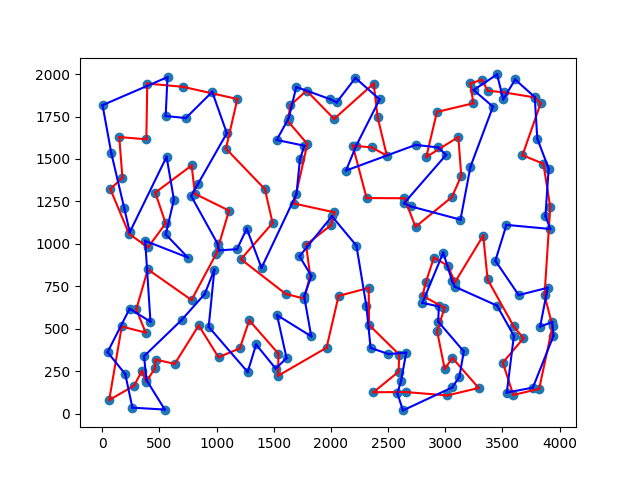
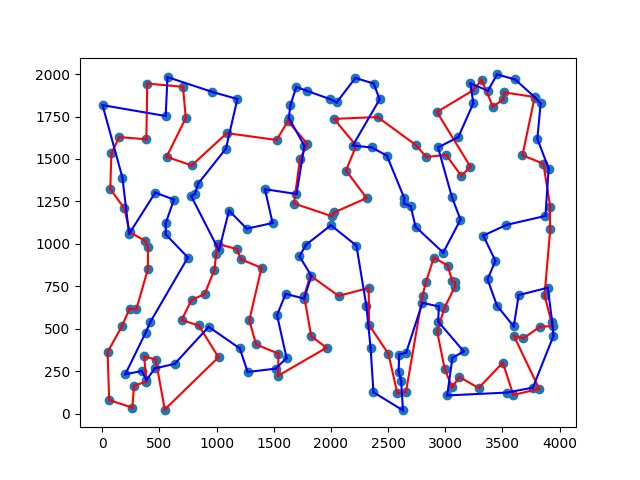
weighted 2 regret fixed :)))

diff --git a/TSP_heuristic/src/algo/regret_first.py b/TSP_heuristic/src/algo/regret_first.py
@@ -14,7 +14,7 @@ def two_regret(distances, starting_nodes, use_weights=False):
             insertion_costs.sort()
             if len(insertion_costs) > 1:
                 if use_weights:
-                    regret = w1 * insertion_costs[1][0] - w2 * insertion_costs[0][0]
+                    regret = w1 * insertion_costs[1][0] + w2 * insertion_costs[0][0]
                 else:
                     regret = insertion_costs[1][0] - insertion_costs[0][0]
             else:

diff --git a/TSP_heuristic/src/main.py b/TSP_heuristic/src/main.py
@@ -61,8 +61,8 @@ if __name__ == '__main__':
     paths = ['../data/kroA200.tsp', '../data/kroB200.tsp']
     # paths = ['data/kroA200.tsp']
     algorithms = [
-        greedy_nearest_neighbor,
-        greedy_cheapest_insertion,
+        # greedy_nearest_neighbor,
+        # greedy_cheapest_insertion,
         two_regret,
         weighted_two_regret,
         # two_regret_basic,
